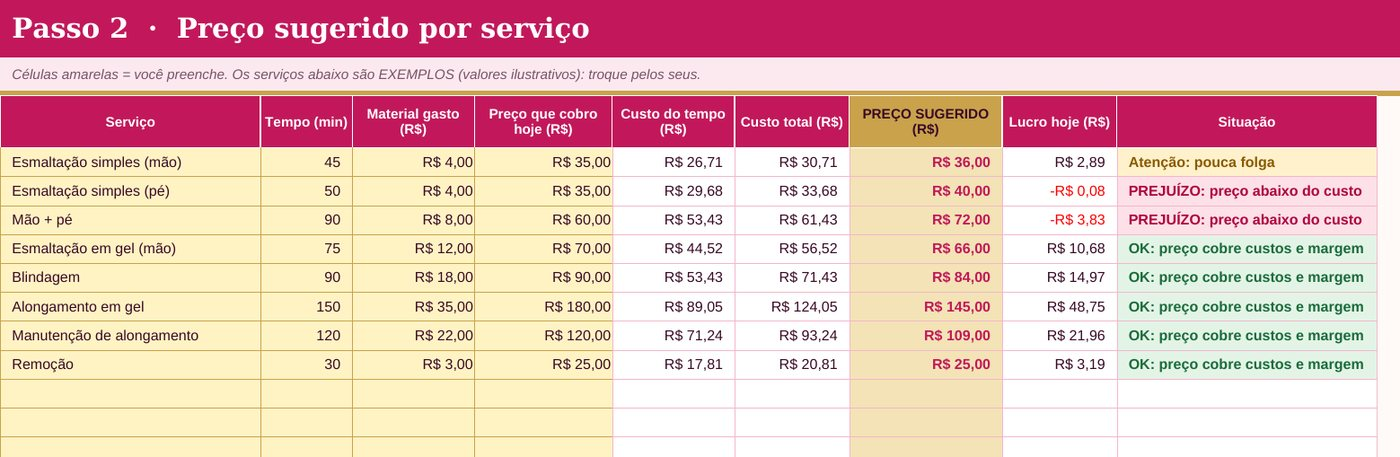
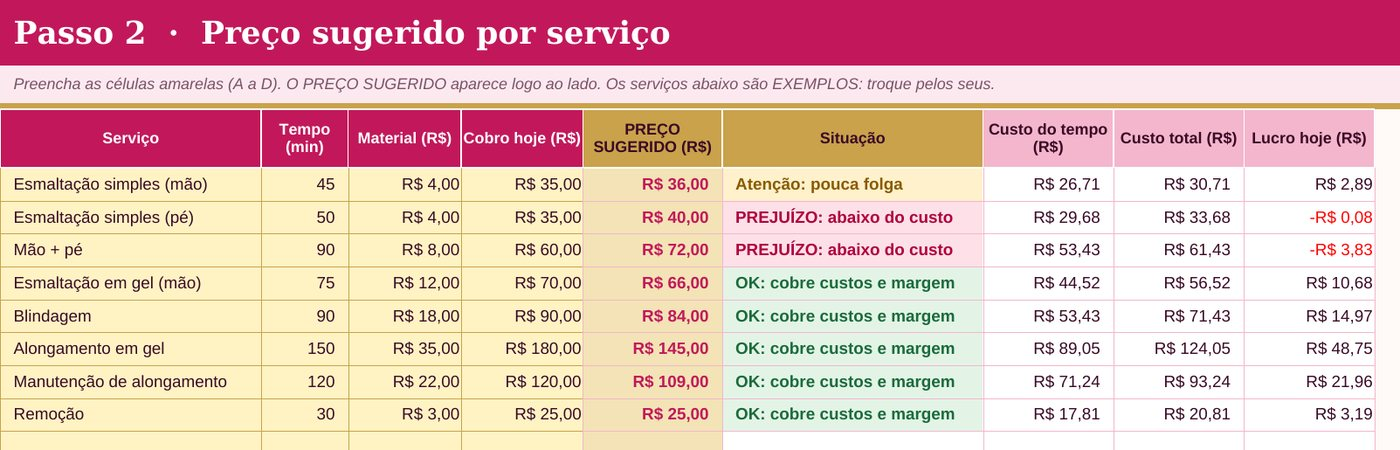
Planilha reorganizada (preço sugerido ao lado do preço de hoje); obrigado com botões Excel e Google Planilhas
Claude-Session: https://claude.ai/code/session_01VVXSWQenri3WwETC67snQx

diff --git a/obrigado.html b/obrigado.html
@@ -3,12 +3,16 @@
 <title>Sua calculadora · Kit Preço Certo</title><meta name="robots" content="noindex">
 <link rel="icon" type="image/png" href="favicon.png">
 <link href="https://fonts.googleapis.com/css2?family=Playfair+Display:wght@700&family=Poppins:wght@400;500;600;700&display=swap" rel="stylesheet">
-<link rel="stylesheet" href="style.css?v=10"></head><body>
+<link rel="stylesheet" href="style.css?v=11"></head><body>
 <header><div class="wrap"><a class="brand" href="./"><img src="favicon.png" alt="">Kit Preço Certo</a></div></header>
 <div class="wrap" style="max-width:640px;padding-bottom:60px">
 <h1>Pronto! Sua calculadora está liberada 💅</h1>
 <p class="sub">Baixe a planilha e siga os 3 passos da primeira aba.</p>
-<a class="btn" id="dl" href="Calculadora-Preco-Certo.xlsx" download>Baixar a calculadora (Excel)</a>
+<div class="dl-box" id="dlbox">
+<a class="btn" id="dl" href="Calculadora-Preco-Certo.xlsx" download>Baixar para Excel (computador)</a>
+<a class="btn ig" id="gs" href="#" target="_blank" rel="noopener" hidden>Abrir no Google Planilhas (celular)</a>
+</div>
+<p class="note-s" id="dlhint" style="margin-top:10px" hidden>É a mesma calculadora. No celular, o Google Planilhas é mais fácil de editar. No computador, use o Excel.</p>
 <div class="card" style="margin-top:22px">
 <h2>Como usar</h2>
 <ul class="ok"><li>Preencha só as células <b>amarelas</b>. Os números que já estão lá são exemplos.</li>
@@ -20,6 +24,15 @@
 </div>
 <footer><div class="wrap"><p><a href="privacidade.html">Política de privacidade</a></p><p>Kit Preço Certo · CNPJ 39.680.100/0001-41</p></div></footer>
 <script>
-document.getElementById("dl").addEventListener("click",function(){setTimeout(function(){location.href="valeu.html";},900);});
+// Link "Fazer uma cópia" do Google Planilhas (termina em /copy). Enquanto vazio, o botão fica escondido.
+var GSHEET_URL="";
+var dl=document.getElementById("dl"), gs=document.getElementById("gs"), box=document.getElementById("dlbox");
+function go(){setTimeout(function(){location.href="valeu.html";},900);}
+dl.addEventListener("click",go);
+if(GSHEET_URL){
+  gs.href=GSHEET_URL; gs.hidden=false; document.getElementById("dlhint").hidden=false; gs.addEventListener("click",go);
+  var mobile=window.matchMedia("(pointer:coarse)").matches||/Android|iPhone|iPad|iPod/i.test(navigator.userAgent);
+  if(mobile){ box.insertBefore(gs,dl); gs.classList.remove("ig"); dl.classList.add("ig"); }
+}
 </script>
 </body></html>

diff --git a/privacidade.html b/privacidade.html
@@ -2,7 +2,7 @@
 <html lang="pt-BR"><head><meta charset="utf-8"><meta name="viewport" content="width=device-width, initial-scale=1">
 <title>Política de privacidade · Kit Preço Certo</title><link rel="icon" type="image/png" href="favicon.png">
 <link href="https://fonts.googleapis.com/css2?family=Playfair+Display:wght@700&family=Poppins:wght@400;500;600;700&display=swap" rel="stylesheet">
-<link rel="stylesheet" href="style.css?v=10"></head><body>
+<link rel="stylesheet" href="style.css?v=11"></head><body>
 <header><div class="wrap"><a class="brand" href="./"><img src="favicon.png" alt="">Kit Preço Certo</a></div></header>
 <div class="wrap" style="max-width:760px;padding-bottom:60px">
 <h1 style="font-size:2rem">Política de privacidade</h1>

diff --git a/valeu.html b/valeu.html
@@ -3,7 +3,7 @@
 <title>Valeu! · Kit Preço Certo</title><meta name="robots" content="noindex">
 <link rel="icon" type="image/png" href="favicon.png">
 <link href="https://fonts.googleapis.com/css2?family=Playfair+Display:wght@700&family=Poppins:wght@400;500;600;700&display=swap" rel="stylesheet">
-<link rel="stylesheet" href="style.css?v=10"></head><body>
+<link rel="stylesheet" href="style.css?v=11"></head><body>
 <header><div class="wrap"><a class="brand" href="./"><img src="favicon.png" alt="">Kit Preço Certo</a></div></header>
 <div class="wrap" style="max-width:640px;padding-bottom:60px">
 <h1>Tudo certo! Sua calculadora está baixando.</h1>

diff --git a/index.html b/index.html
@@ -6,7 +6,7 @@
 <link rel="icon" type="image/png" href="favicon.png"><link rel="apple-touch-icon" href="apple-touch-icon.png">
 <link rel="preconnect" href="https://fonts.googleapis.com"><link rel="preconnect" href="https://fonts.gstatic.com" crossorigin>
 <link href="https://fonts.googleapis.com/css2?family=Playfair+Display:wght@700&family=Poppins:wght@400;500;600;700&display=swap" rel="stylesheet">
-<link rel="stylesheet" href="style.css?v=10">
+<link rel="stylesheet" href="style.css?v=11">
 <script>document.documentElement.className+=' js';</script></head><body>
 
 <!-- ícones -->

diff --git a/style.css b/style.css
@@ -188,3 +188,7 @@ footer a{color:#fff}
 .count{color:var(--mut);margin-top:18px}
 .count a{color:var(--magenta)}
 .btn.ig{background:#fff;color:var(--magenta);border:2px solid var(--magenta);box-shadow:none}
+
+/* DOWNLOAD (2 botões) */
+.btn[hidden]{display:none}
+.dl-box{display:flex;flex-direction:column;gap:12px}
